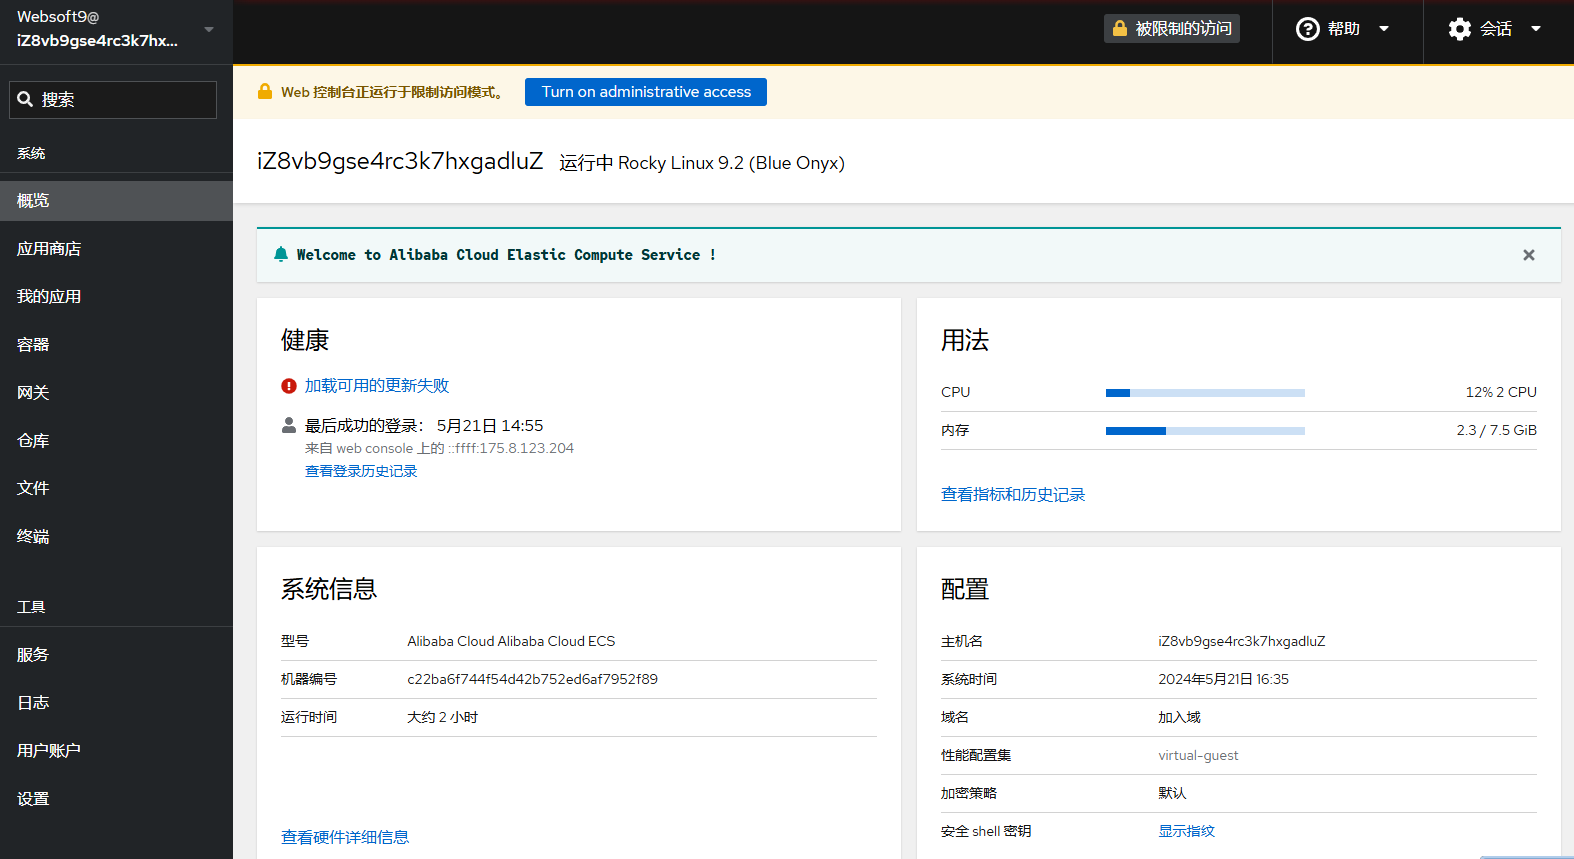
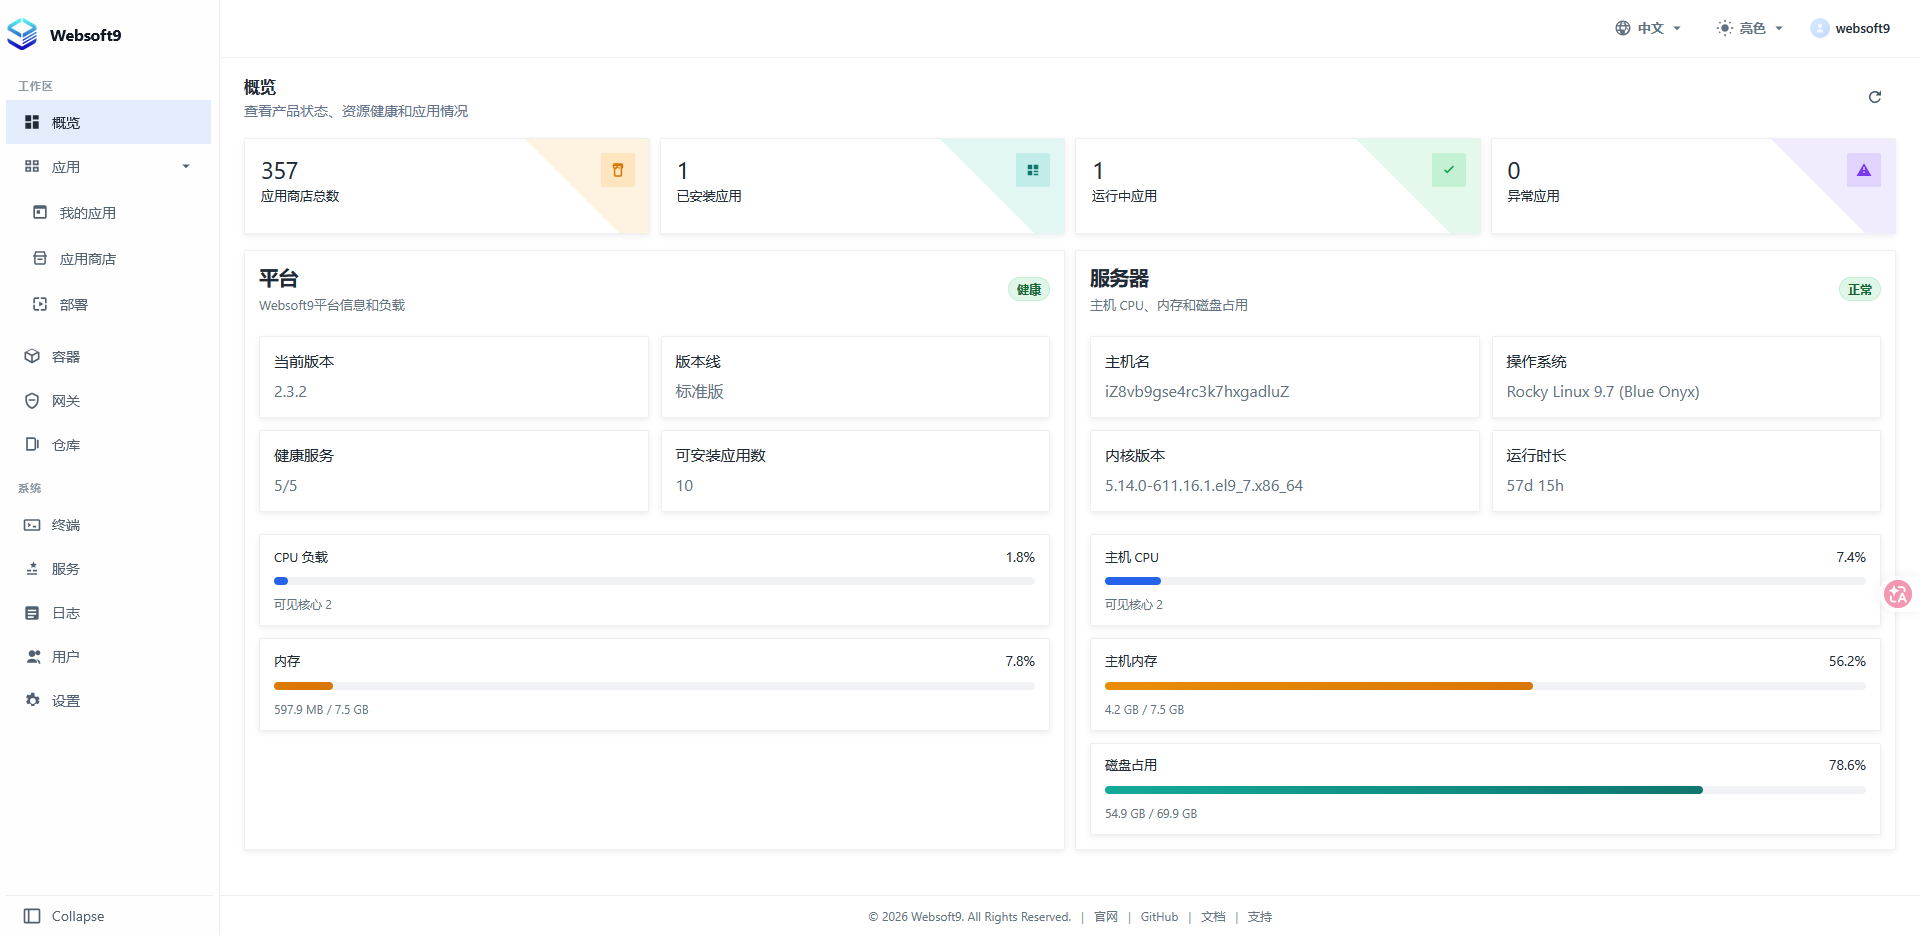
docs: update login, upgrade pages and fix port 9090 for v2.3.0

diff --git a/i18n/en/docusaurus-plugin-content-docs/version-2.0/starter/login.md b/i18n/en/docusaurus-plugin-content-docs/version-2.0/starter/login.md
@@ -3,48 +3,58 @@ sidebar_position: 0.1
 slug: /login-console
 ---
 
-# Login Websoft9 Console
+# Login to Websoft9 Console
 
-After installing the Websoft9, the next step is to login to the Websoft9 Console.
+After [installing](./install) Websoft9, you can log in to the Websoft9 Console for configuration and management.
 
-## Prepare
+## Prerequisites
 
-Below steps is need:  
+Before logging in, ensure the following:
 
-- Open the inbound ports of Server at your Cloud security group:
+1. **Open inbound ports** on your cloud security group:
 
-   - Required ports: **80, 443, 22, 9000**
-   - Optional ports (for application access): **9001-9999**
+   - **Required**: 80, 443, 9000
+   - **Optional** (for app access): 9001-9999
 
-- Get the Server's [credentials](./credentials) that is shared with Websoft9 Console
+## First Visit
 
-## Login
+1. Open your browser and visit: `http://<server-public-IP>:9000`
+2. On first visit, the **Setup Wizard** will guide you to create an administrator account and configure basic settings
+3. After setup, log in with the administrator account you just created
 
-1. Access via local browser: `http://server-public-IP:9000`, the Websoft9 login page
-   ![Websoft9 Login page](./assets/websoft9-loginpage.png)
+> Websoft9 uses its own user system. The administrator account is created in the Setup Wizard and is independent of the server's operating system accounts.
 
-   > The latest version of Websoft9 enforces access via the HTTPS protocol. For users utilizing the Firefox browser, please visit https://InternetIP to access the Websoft9 boot page. Follow the instructions provided on the boot page to smoothly navigate to the Websoft9 login interface.
+## Console Overview
 
-2. Input the server's [username and password](./credentials), after a successful login, you will be directed to the console default page.  
- 
-   - **User name**: The server's administrator account, it is recommended to use `root` for the first login. 
-   - **Password**: The server's administrator password.
+After logging in, you will see the console dashboard:
 
-   ![](./assets/websoft9-console-index.png)
+![Websoft9 Console Dashboard](./assets/websoft9-console-index.png)
 
-3. Click on **App Store** to view all available application templates.
-   ![](./assets/websoft9-appstore.png)
+The left sidebar menu is organized into two sections:
 
-4. Click on **My Apps**to view the list of installed applications.
-   ![](./assets/websoft9-myapps.png)
+**Workspace**
+| Menu | Description |
+|------|-------------|
+| Overview | Server status dashboard |
+| Apps › My Apps | Manage installed applications (start, stop, restart, redeploy, backup, compose, etc.) |
+| Apps › App Store | Browse and install 200+ open source app templates |
+| Apps › Deploy | Custom Docker Compose deployment |
+| Containers | Manage Docker containers and images |
+| Gateway | Domain binding, reverse proxy, and SSL certificate management |
+| Repository | Git repository hosting and code management |
+
+**System**
+| Menu | Description |
+|------|-------------|
+| Terminal | Browser-based SSH terminal and file manager |
+| Services | Core service status monitoring |
+| Logs | Structured log viewer |
+| Users | Multi-user accounts with role-based access control |
+| Settings | Platform parameters, mirror acceleration, certificates, and global configuration |
 
 ## Related Topics
 
-- [User account and credentials](./credentials)
-- [Set Global domains for Websoft9](./domain-set#wildcard)
-
-## FAQ
-
-#### Can login Websoft9 using key pair?
-
-No, you should set password for user account and cany keep key pair for SSH
+- [Set Global Domain for Websoft9](./domain-set#wildcard)
+- [Deploy App via App Store](./appstore-guide)
+- [Deploy App via Runtime](./runtime)
+- [User Accounts & Credentials](./credentials)

diff --git a/versioned_docs/version-2.0/starter/login.md b/versioned_docs/version-2.0/starter/login.md
@@ -5,42 +5,58 @@ slug: /login-console
 
 # 登录 Websoft9 控制台
 
-在成功[安装](./install) Websoft9 服务器后，接下来需要登录 Websoft9 控制台进行配置和管理。
+在成功[安装](./install) Websoft9 后，即可登录 Websoft9 控制台进行配置和管理。
 
 ## 准备
 
-在登录 Websoft9 控制台之前，请确保完成以下准备工作：
+登录之前，请确保完成以下准备工作：
 
 1. **开放服务器安全组入方向端口**：
 
-   - **必要端口**：80, 443, 22, 9000
+   - **必要端口**：80, 443, 9000
    - **可选端口**（供应用访问）：9001-9999
 
-2. **获取服务器的账号密码**：
+## 首次访问
 
-   Websoft9 与服务器共享相同的[账号密码](./credentials)，并有必要的[权限要求](./credentials#convert-normal)。
-
-## 登录 Websoft9
-
-1. 本地浏览器访问： `http://服务器公网IP:9000`，进入 Websoft9 登录界面
+1. 本地浏览器访问： `http://服务器公网IP:9000`
+2. 首次访问将进入**设置向导**，根据提示创建管理员账户并完成基本配置
+   ![Websoft9 设置向导](./assets/websoft9-setupwizard.png)
+3. 设置完成后，使用刚创建的管理员账户登录控制台
    ![Websoft9 登录界面](./assets/websoft9-loginpage.png)
 
-   - 用户名：Websoft9 所在的 [服务器的账号](./credentials)，首次使用建议 `root`
-   - 密码：服务器密码
+> Websoft9 使用独立的用户系统，管理员账户在设置向导中创建，与服务器操作系统账号无关。
 
-  > 目前新版本的 Websoft9 强制使用 HTTPS 协议进行访问。对于使用 Firefox 浏览器的用户，请访问 https://服务器公网IP，以进入 Websoft9 引导页面。根据引导页面的提示，您将能够顺利进入 Websoft9 登录界面。
+## 控制台概览
 
-2. 登录成功后，进入控制台概述页面，显示服务器的状态信息
-   ![](./assets/websoft9-console-index.png)
+登录成功后进入控制台首页：
 
-3. 点击 **应用商店**，查看可安装的所有应用模板
-   ![](./assets/websoft9-appstore.png)
+![Websoft9 控制台首页](./assets/websoft9-console-index.png)
 
-4. 点击 **我的应用**，查看已安装的应用列表
-   ![](./assets/websoft9-myapps.png)
+左侧导航菜单分为两大区域：
+
+**工作区**
+| 菜单 | 功能 |
+|------|------|
+| 概览 | 服务器状态总览 |
+| 应用 › 我的应用 | 管理已安装的应用（启动、停止、重启、重建、备份、编排等） |
+| 应用 › 应用商店 | 浏览和安装 200+ 开源应用模板 |
+| 应用 › 部署 | 自定义 Docker Compose 部署 |
+| 容器 | 管理 Docker 容器和镜像 |
+| 网关 | 域名绑定、反向代理和 SSL 证书管理 |
+| 仓库 | Git 仓库托管和代码管理 |
+
+**系统**
+| 菜单 | 功能 |
+|------|------|
+| 终端 | 浏览器内 SSH 终端和文件管理 |
+| 服务 | 核心服务状态监控 |
+| 日志 | 结构化日志查看 |
+| 用户 | 多用户账号与角色权限管理 |
+| 设置 | 平台参数、镜像加速、证书等全局配置 |
 
 ## 相关主题
 
 - [为 Websoft9 设置全局域名](./domain-set#wildcard)
 - [使用模板一键部署应用](./appstore-guide)
 - [使用程序环境部署应用](./runtime)
+- [用户账号与权限](./credentials)

diff --git a/i18n/en/docusaurus-plugin-content-docs/version-2.0/admin/upgrade/websoft9.md b/i18n/en/docusaurus-plugin-content-docs/version-2.0/admin/upgrade/websoft9.md
@@ -3,28 +3,27 @@ sidebar_position: 1
 slug: /upgrade-websoft9
 ---
 
-#  Upgrade Websoft9
+# Upgrade Websoft9
 
 ## Upgrade Websoft9
 
-The **Settings** page of the Websoft9 Console provides an automated online upgrade solution.  
+The install script supports both **fresh install** and **upgrade**, and auto-detects the current environment. Back up your data before upgrading.
 
-You can also use below upgrade script: 
 ```
 wget -O install.sh https://artifact.websoft9.com/websoft9/release/install.sh && sudo bash install.sh
 ```
 
-## Troubleshoot
+> Upgrade does not affect deployed applications.
 
-Below references for your troubleshoot after upgrade Websoft9
+## Troubleshooting
 
-### Can not open Git or Gateway interface?
+#### Unable to access some features after upgrade?
 
-**Description**: Can not access Git or Gateway interface at Websoft9 Console, and have network error
-**Reason**: The local browser cache conflict with the Websoft9 server
+**Description**: Cannot access Gateway or Repository interface at Websoft9 Console, showing network error
 **Solution**: Clear your browser cache
 
-Blow is the sample for your clear cache for Websoft9 on Microsoft Egde: F12 Shortcut to enter to browser's developer mode 
+Below is an example of clearing cache on Microsoft Edge: press F12 to enter browser developer mode
+
 ![](./assets/websoft9-edge-clearcache.png)
 
 

diff --git a/versioned_docs/version-2.0/admin/upgrade/websoft9.md b/versioned_docs/version-2.0/admin/upgrade/websoft9.md
@@ -7,24 +7,22 @@ slug: /upgrade-websoft9
 
 ## 升级 Websoft9
 
-Websoft9 控制台的【设置】页面提供了自动化的在线升级方案。  
+安装脚本同时支持**全新安装**和**升级**，会自动检测当前环境。升级前建议先备份数据。
 
-也可以使用下面的一键升级脚本:
 ```
 wget -O install.sh https://artifact.websoft9.com/websoft9/release/install.sh && sudo bash install.sh
 ```
 
+> 升级过程不会影响已部署的应用。
+
 ## 故障处理
 
-升级后，可能出现的故障
-
-#### 网关、仓库 等功能打不开？
+#### 升级后部分功能界面无法打开？
 
 **描述**：登录 Websoft9 后，网关、仓库等功能界面进不去，显示网络超时的错误   
-**分析**：升级后本地浏览器缓存数据与服务器端不匹配
 **方案**：清除本地浏览器缓存
 
-下面是 Microsoft Egde 浏览器下清除缓存的范例：键盘 F12 进入浏览器的检查（开发者调试）模式后参考下图操作
+下面是 Microsoft Edge 浏览器下清除缓存的范例：键盘 F12 进入浏览器的检查（开发者调试）模式后参考下图操作
 
 ![](./assets/websoft9-edge-clearcache.png)
 

diff --git a/versioned_docs/version-2.0/admin/troubleshoot/howto/method/tree.md b/versioned_docs/version-2.0/admin/troubleshoot/howto/method/tree.md
@@ -70,7 +70,7 @@ ping websoft9.com
 traceroute websoft9.com
 
 # Telnet
-telnet websoft9.com 9090
+telnet websoft9.com 9000
 
 # Ping 与 traceroute 组合
 mtr websoft9.com

diff --git a/i18n/en/docusaurus-plugin-content-docs/version-2.0/admin/troubleshoot/howto/method/tree.md b/i18n/en/docusaurus-plugin-content-docs/version-2.0/admin/troubleshoot/howto/method/tree.md
@@ -61,7 +61,7 @@ ping websoft9.com
 traceroute websoft9.com
 
 # Telnet
-telnet websoft9.com 9090
+telnet websoft9.com 9000
 
 # Ping and traceroute
 mtr websoft9.com
